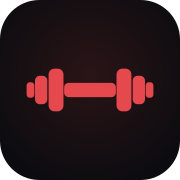
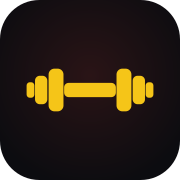
feat(marca): MARA FITNESS pasa a ser la identidad por defecto
Lo configurado en el panel vive en el navegador de CADA persona, asi que con
FIT CORE por defecto cualquiera que abriera el enlace publicado veia FIT CORE
por mucho que el administrador hubiera puesto otra cosa en el suyo. Para que
el enlace muestre MARA FITNESS hay que cambiarlo en el codigo, no en el panel.

FIT CORE no se pierde: queda en FITCORE_BRAND y sigue a un toque desde
Configuracion -> Incluidas.

Se alinea tambien lo que NO depende del panel, que si no habria quedado
incoherente igual que el logotipo de MORA'S: titulo de la pestana, tarjeta al
compartir, favicon y apple-icon, todos regenerados en amarillo con el nombre
correcto. El tamano del nombre en la tarjeta pasa a ser adaptativo por la
misma razon que en el logotipo.

Ademas: "Socio ·" aparecia con el separador colgando y nada detras cuando el
socio no tiene numero asignado.

Changed region(s): [[0.1389, 0.3611, 0.8611, 0.6389]]

diff --git a/lib/brand.ts b/lib/brand.ts
@@ -44,15 +44,30 @@ export interface BrandConfig {
 }
 
 /**
- * Identidad por defecto del producto.
+ * Identidad que ve quien abre la aplicación sin configurar nada.
  *
- * Las imágenes son propias de FIT CORE. Antes se reutilizaban las de MORA'S
- * GYM, pero el logotipo grande lleva ESE nombre escrito dentro y chocaba con
- * el "FIT CORE" del header. Las de MORA'S siguen en /brand/mark.png y
- * /brand/logo.png: se pueden volver a poner desde Configuración cuando se
- * presente la app a ese gimnasio.
+ * Es la del gimnasio al que se está presentando, no la del producto: lo que
+ * se guarda en el panel vive en el navegador de cada persona, así que si aquí
+ * quedara FIT CORE, cualquiera que abriera el enlace publicado vería FIT CORE
+ * por mucho que el administrador hubiera configurado otra cosa en el suyo.
+ *
+ * FIT CORE sigue disponible en BUILTIN_BRANDS, a un toque desde Configuración.
  */
 export const DEFAULT_BRAND: BrandConfig = {
+  name: "MARA",
+  nameAccent: "FITNESS",
+  mark: "/brand/mara-mark.png",
+  logo: "/brand/mara-logo.png",
+  splash: "/brand/mara-logo.png",
+  tagline: "Entrena con constancia. Los resultados llegan.",
+  primaryColor: "#f5c518",
+  nameColor: "",
+  accentColor: "",
+  taglineColor: "",
+};
+
+/** Identidad del producto, por si se quiere volver a ella. */
+export const FITCORE_BRAND: BrandConfig = {
   name: "FIT",
   nameAccent: "CORE",
   mark: "/brand/fitcore-mark.png",
@@ -320,22 +335,11 @@ export const BUILTIN_BRANDS: { id: string; label: string; brand: BrandConfig }[]
   {
     id: "builtin-fitcore",
     label: "FIT CORE",
-    brand: DEFAULT_BRAND,
+    brand: FITCORE_BRAND,
   },
   {
     id: "builtin-mara",
     label: "MARA FITNESS",
-    brand: {
-      name: "MARA",
-      nameAccent: "FITNESS",
-      mark: "/brand/mara-mark.png",
-      logo: "/brand/mara-logo.png",
-      splash: "/brand/mara-logo.png",
-      tagline: "Entrena con constancia. Los resultados llegan.",
-      primaryColor: "#f5c518",
-      nameColor: "",
-      accentColor: "",
-      taglineColor: "",
-    },
+    brand: DEFAULT_BRAND,
   },
 ];

diff --git a/app/layout.tsx b/app/layout.tsx
@@ -17,8 +17,8 @@ const geistMono = Geist_Mono({
 
 export const metadata: Metadata = {
   title: {
-    default: "FIT CORE — Tu entrenador personal digital",
-    template: "%s | FIT CORE",
+    default: "MARA FITNESS — Entrena con constancia",
+    template: "%s | MARA FITNESS",
   },
   description:
     "Entrena, aliméntate y controla tu progreso desde una sola plataforma. Rutinas inteligentes, planes nutricionales y seguimiento corporal.",
@@ -26,15 +26,15 @@ export const metadata: Metadata = {
   // La imagen la aporta app/opengraph-image.png por convención del App Router.
   openGraph: {
     type: "website",
-    siteName: "FIT CORE",
-    title: "FIT CORE — Tu entrenador personal digital",
+    siteName: "MARA FITNESS",
+    title: "MARA FITNESS — Entrena con constancia",
     description:
       "Rutinas, biblioteca de ejercicios con mapa muscular, seguimiento de progreso y nutrición.",
     locale: "es_MX",
   },
   twitter: {
     card: "summary_large_image",
-    title: "FIT CORE — Tu entrenador personal digital",
+    title: "MARA FITNESS — Entrena con constancia",
     description:
       "Rutinas, biblioteca de ejercicios con mapa muscular, seguimiento de progreso y nutrición.",
   },

diff --git a/app/perfil/page.tsx b/app/perfil/page.tsx
@@ -111,7 +111,7 @@ export default function PerfilPage() {
               <div className="min-w-0 flex-1">
                 <p className="truncate text-lg font-bold">{profile.name}</p>
                 <p className="truncate text-sm text-muted-foreground">
-                  Socio · {profile.memberNumber}
+                  Socio{profile.memberNumber ? ` · ${profile.memberNumber}` : ""}
                 </p>
               </div>
               <Button asChild variant="outline" size="sm">

diff --git a/components/Header.tsx b/components/Header.tsx
@@ -155,7 +155,7 @@ export function Header() {
                           {profile.name}
                         </span>
                         <span className="block truncate text-xs font-normal text-muted-foreground">
-                          Socio · {profile.memberNumber}
+                          Socio{profile.memberNumber ? ` · ${profile.memberNumber}` : ""}
                         </span>
                       </span>
                     </DropdownMenuLabel>
